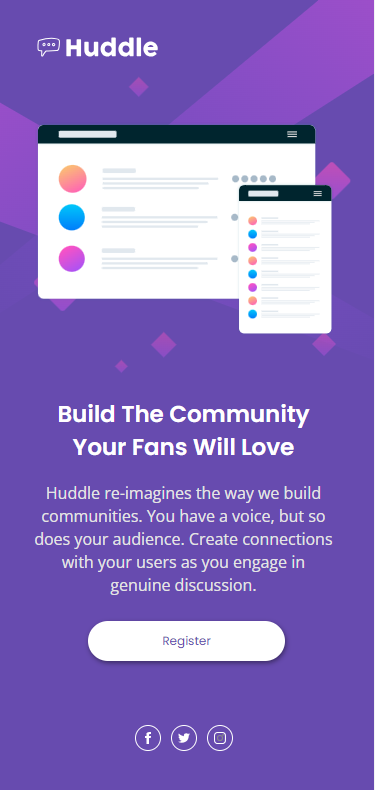
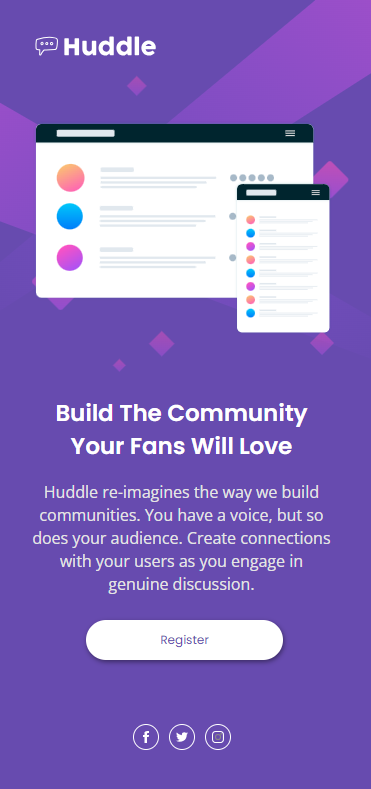
last changes

diff --git a/css/styles.scss b/css/styles.scss
@@ -1,9 +1,11 @@
-@import url("https://fonts.googleapis.com/css2?family=Open+Sans&family=Poppins:wght@400;600&display=swap");
+@import url("https://fonts.googleapis.com/css2?family=Open+Sans&family=Poppins:wght@400&display=swap");
 
 $violet: hsl(257, 40%, 49%);
 $soft-magenta: hsl(300, 69%, 71%);
-$heading-font: "Poppins", sans-serif;
-$body-font: "Open Sans", sans-serif;
+$heading-font: "Poppins",
+sans-serif;
+$body-font: "Open Sans",
+sans-serif;
 
 * {
   margin: 0;
@@ -22,10 +24,8 @@ body {
 
   @media (min-width: 1440px) {
     background: $violet url("../images/bg-desktop.svg") -35px 0px no-repeat;
-    // background-position: center -50px;
     background-size: 90%;
     background-size: contain;
-    // height: auto;
   }
 }
 
@@ -33,7 +33,6 @@ main {
   max-width: 350px;
   margin: auto;
   padding: 1.4rem 1.2rem;
-  //   border: 1px solid red;
   height: 100vh;
 
   @media (min-width: 1440px) {
@@ -51,11 +50,11 @@ main {
     @media (min-width: 1440px) {
       margin-bottom: 0;
     }
+
     .logo-wrapper {
       text-align: left;
 
-      @media (min-width: 1440px) {
-      }
+      @media (min-width: 1440px) {}
 
       .logo {
         width: 130px;
@@ -77,6 +76,7 @@ main {
       display: flex;
       justify-content: center;
     }
+
     .section-image-wrapper {
       margin-top: 4px;
       margin-left: 4px;
@@ -123,6 +123,7 @@ main {
           line-height: 59px;
         }
       }
+
       p {
         font-weight: 400;
         font-size: 16px;
@@ -138,6 +139,7 @@ main {
           margin-bottom: 1.6rem;
         }
       }
+
       button {
         all: unset;
         font-family: $heading-font;

diff --git a/css/styles.css b/css/styles.css
@@ -1,4 +1,4 @@
-@import url("https://fonts.googleapis.com/css2?family=Open+Sans&family=Poppins:wght@400;600&display=swap");
+@import url("https://fonts.googleapis.com/css2?family=Open+Sans&family=Poppins:wght@400&display=swap");
 * {
   margin: 0;
   padding: 0;

diff --git a/README.md b/README.md
@@ -19,7 +19,7 @@
 ![mobile](./completed_screenshots/mobile.PNG)
 ![desktop](./completed_screenshots/desktop.PNG)
 
-<a href="https://fementor-af-nft-preview-card.netlify.app">Live Site URL</a>
+<a href="https://fementor-af-huddle-landing-page.netlify.app">Live Site URL</a>
 
 ---
 
